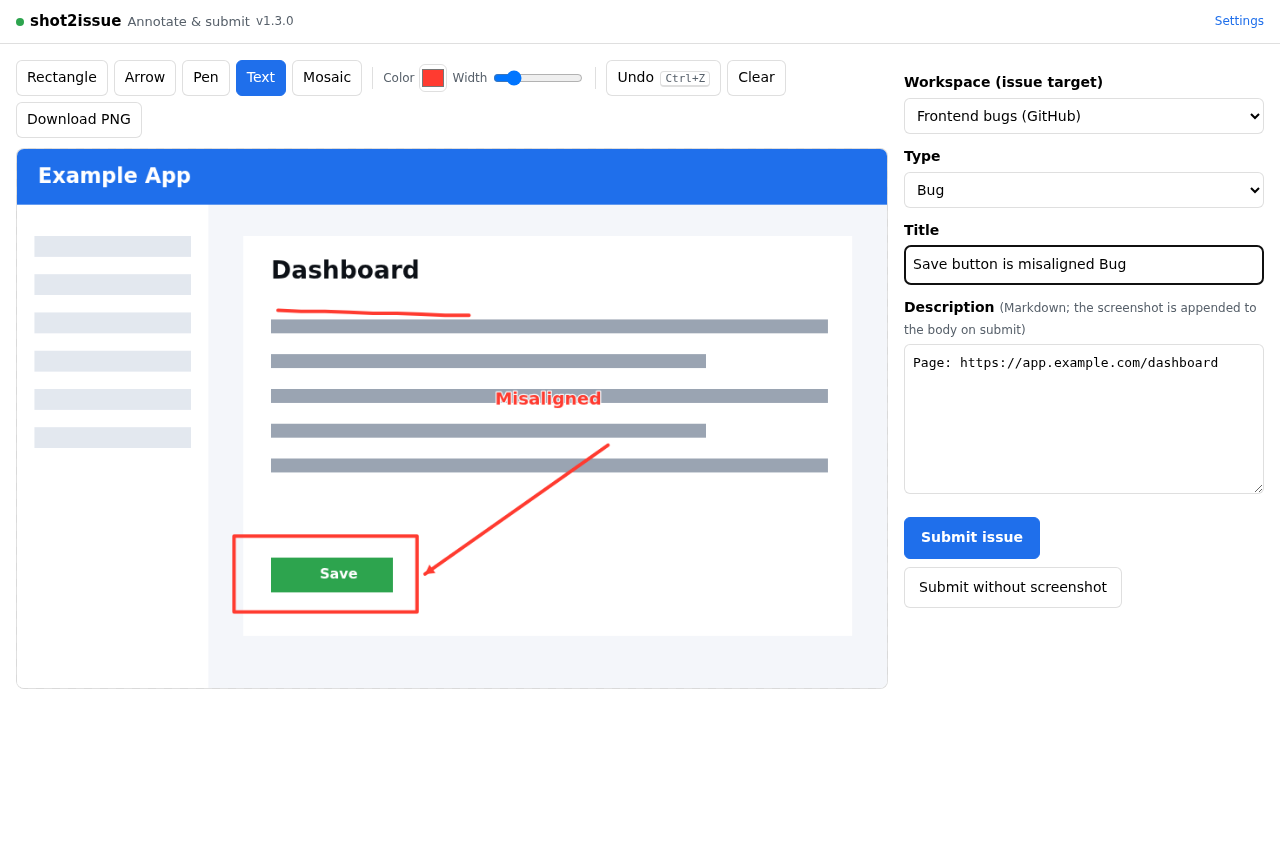
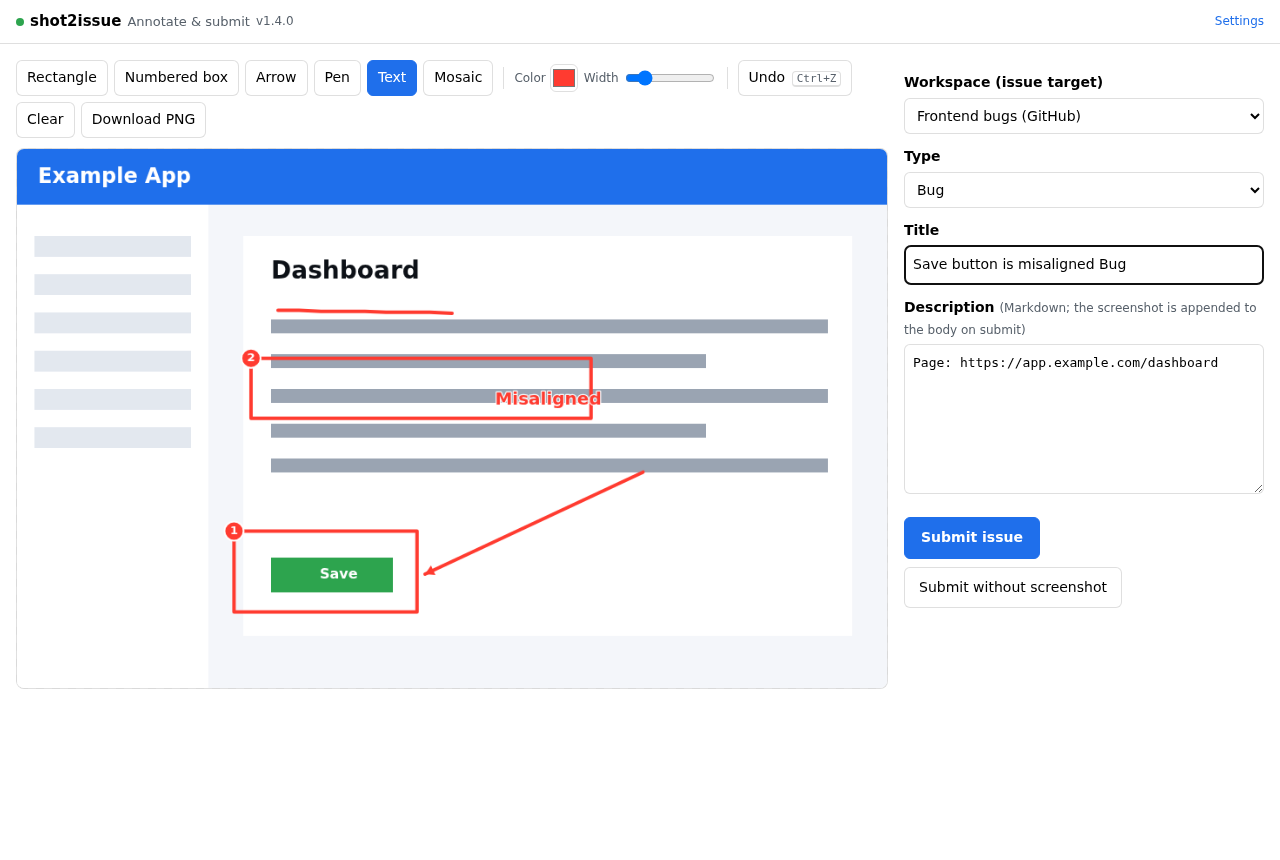
feat: numbered-box tool and double-Esc to close
- Add a "Numbered box" annotation tool: draws a rectangle with an auto-incrementing,
  white-outlined circular badge (1, 2, 3, …) at its top-left corner. The number is the
  count of existing numbered boxes + 1, so undo frees the number for the next box.
- Esc now closes the editor only on the second consecutive press; the first press shows a
  transient toast ("Press Esc again to close") that disarms after 2s.
- Update the Playwright smoke test (numbered box + double-Esc) and the README screenshot
  to showcase the numbered boxes.
- Version 1.4.0.

diff --git a/src/editor.ts b/src/editor.ts
@@ -31,6 +31,7 @@ interface Op {
   x1?: number;
   y1?: number;
   points?: Array<{ x: number; y: number }>; // freehand pen path
+  num?: number; // numbered-box badge value
   size?: number;
   x?: number;
   y?: number;
@@ -217,8 +218,8 @@ els.clear.addEventListener('click', () => {
 });
 
 // Page-level shortcuts:
-//   Esc        → close this editor tab
-//   Ctrl/Cmd+Z → undo the last annotation (native undo still works inside text fields)
+//   Esc (twice) → close this editor tab (the first press shows a confirmation toast)
+//   Ctrl/Cmd+Z  → undo the last annotation (native undo still works inside text fields)
 function closeEditorTab(): void {
   chrome.tabs
     .getCurrent()
@@ -227,10 +228,37 @@ function closeEditorTab(): void {
     })
     .catch(() => {});
 }
+
+let escArmed = false;
+let escTimer: number | undefined;
+let toastEl: HTMLElement | null = null;
+let toastTimer: number | undefined;
+function showToast(message: string): void {
+  if (!toastEl) {
+    toastEl = document.createElement('div');
+    toastEl.className = 'toast';
+    document.body.appendChild(toastEl);
+  }
+  toastEl.textContent = message;
+  toastEl.classList.add('show');
+  window.clearTimeout(toastTimer);
+  toastTimer = window.setTimeout(() => toastEl?.classList.remove('show'), 1600);
+}
+
 window.addEventListener('keydown', (e) => {
   if (e.target === textInput) return; // the text-tool input manages its own keys
   if (e.key === 'Escape') {
-    closeEditorTab();
+    if (escArmed) {
+      window.clearTimeout(escTimer);
+      escArmed = false;
+      closeEditorTab();
+    } else {
+      escArmed = true;
+      showToast(t('escAgainToClose'));
+      escTimer = window.setTimeout(() => {
+        escArmed = false;
+      }, 2000);
+    }
     return;
   }
   if ((e.ctrlKey || e.metaKey) && !e.shiftKey && (e.key === 'z' || e.key === 'Z')) {
@@ -271,6 +299,11 @@ canvas.addEventListener('mousedown', (e) => {
     x1: p.x,
     y1: p.y,
   };
+  // Numbered box: assign the next number now so the drag preview shows it. The count is
+  // taken from the committed ops, so undo naturally frees the number for the next box.
+  if (currentTool === 'numrect') {
+    drawing.num = ops.filter((o) => o.tool === 'numrect').length + 1;
+  }
 });
 
 canvas.addEventListener('mousemove', (e) => {
@@ -371,6 +404,8 @@ function drawOp(op: Op): void {
     const x = Math.min(op.x0 ?? 0, op.x1 ?? 0);
     const y = Math.min(op.y0 ?? 0, op.y1 ?? 0);
     ctx.strokeRect(x, y, Math.abs((op.x1 ?? 0) - (op.x0 ?? 0)), Math.abs((op.y1 ?? 0) - (op.y0 ?? 0)));
+  } else if (op.tool === 'numrect') {
+    drawNumRect(op);
   } else if (op.tool === 'arrow') {
     drawArrow(op);
   } else if (op.tool === 'pen') {
@@ -402,6 +437,28 @@ function drawPen(op: Op): void {
   ctx.moveTo(pts[0].x, pts[0].y);
   for (let i = 1; i < pts.length; i++) ctx.lineTo(pts[i].x, pts[i].y);
   ctx.stroke();
+}
+
+/** Draw a rectangle with a numbered, white-outlined circular badge at its top-left corner. */
+function drawNumRect(op: Op): void {
+  const x = Math.min(op.x0 ?? 0, op.x1 ?? 0);
+  const y = Math.min(op.y0 ?? 0, op.y1 ?? 0);
+  ctx.strokeRect(x, y, Math.abs((op.x1 ?? 0) - (op.x0 ?? 0)), Math.abs((op.y1 ?? 0) - (op.y0 ?? 0)));
+
+  const r = Math.max(11, (op.width || 4) * 2.4);
+  ctx.beginPath();
+  ctx.arc(x, y, r, 0, Math.PI * 2);
+  ctx.fillStyle = op.color;
+  ctx.fill();
+  ctx.lineWidth = Math.max(2, r / 6);
+  ctx.strokeStyle = '#ffffff';
+  ctx.stroke();
+
+  ctx.fillStyle = '#ffffff';
+  ctx.font = `bold ${Math.round(r * 1.2)}px system-ui, sans-serif`;
+  ctx.textAlign = 'center';
+  ctx.textBaseline = 'middle';
+  ctx.fillText(String(op.num ?? '?'), x, y + r * 0.04);
 }
 
 function drawArrow(op: Op): void {

diff --git a/src/lib/i18n.ts b/src/lib/i18n.ts
@@ -22,6 +22,8 @@ const MESSAGES: Record<string, Record<string, string>> = {
     toolMosaicTitle: 'Mosaic / redact sensitive content',
     toolPen: 'Pen',
     toolPenTitle: 'Freehand pen',
+    toolNumRect: 'Numbered box',
+    toolNumRectTitle: 'Numbered box (auto-numbered; the count drops on undo)',
     color: 'Color',
     thickness: 'Width',
     undo: 'Undo',
@@ -43,6 +45,7 @@ const MESSAGES: Record<string, Record<string, string>> = {
     submitNoImage: 'Submit without screenshot',
     submitNoImageTitle: 'Create the issue without attaching the screenshot',
     openIssue: 'Open issue',
+    escAgainToClose: 'Press Esc again to close',
 
     statusNoShot: 'No screenshot to edit. Open any web page and click the extension icon to capture.',
     statusNeedWorkspace: 'No workspace configured. Click “Settings” (top right) to add one before submitting.',
@@ -138,6 +141,8 @@ const MESSAGES: Record<string, Record<string, string>> = {
     toolMosaicTitle: '马赛克 / 遮挡敏感内容',
     toolPen: '画笔',
     toolPenTitle: '自由手绘',
+    toolNumRect: '编号框',
+    toolNumRectTitle: '带编号的矩形（自动编号，撤销时计数减一）',
     color: '颜色',
     thickness: '粗细',
     undo: '撤销',
@@ -159,6 +164,7 @@ const MESSAGES: Record<string, Record<string, string>> = {
     submitNoImage: '不含截图提交',
     submitNoImageTitle: '不附带截图直接创建 issue',
     openIssue: '打开 issue',
+    escAgainToClose: '再按一次 Esc 关闭',
 
     statusNoShot: '没有待编辑的截图。打开任意网页后点扩展图标即可截图。',
     statusNeedWorkspace: '尚未配置工作空间。请点右上角「设置」添加后再提交。',
@@ -252,6 +258,8 @@ const MESSAGES: Record<string, Record<string, string>> = {
     toolMosaicTitle: 'モザイク / 機密情報の伏せ字',
     toolPen: 'ペン',
     toolPenTitle: 'フリーハンド',
+    toolNumRect: '番号付き枠',
+    toolNumRectTitle: '番号付き矩形（自動採番、取り消しで番号が減る）',
     color: '色',
     thickness: '太さ',
     undo: '元に戻す',
@@ -273,6 +281,7 @@ const MESSAGES: Record<string, Record<string, string>> = {
     submitNoImage: 'スクリーンショットなしで送信',
     submitNoImageTitle: 'スクリーンショットを添付せずに issue を作成',
     openIssue: 'issue を開く',
+    escAgainToClose: 'もう一度 Esc で閉じる',
 
     statusNoShot: '編集対象のスクリーンショットがありません。任意のページで拡張機能アイコンをクリックして撮影してください。',
     statusNeedWorkspace: 'ワークスペースが未設定です。右上の「設定」から追加してから送信してください。',

diff --git a/src/editor.css b/src/editor.css
@@ -156,3 +156,21 @@ button.ghost {
 .spin { display: inline-block; width: 12px; height: 12px; border: 2px solid var(--border); border-top-color: var(--accent); border-radius: 50%; animation: spin .8s linear infinite; vertical-align: -1px; margin-right: 6px; }
 @keyframes spin { to { transform: rotate(360deg); } }
 .hidden { display: none; }
+
+/* Transient toast (e.g. the "press Esc again" hint). */
+.toast {
+  position: fixed;
+  left: 50%;
+  bottom: 28px;
+  transform: translateX(-50%) translateY(8px);
+  background: rgba(0, 0, 0, 0.82);
+  color: #fff;
+  padding: 8px 14px;
+  border-radius: 8px;
+  font-size: 13px;
+  z-index: 9999;
+  opacity: 0;
+  pointer-events: none;
+  transition: opacity 0.15s, transform 0.15s;
+}
+.toast.show { opacity: 1; transform: translateX(-50%) translateY(0); }

diff --git a/src/editor.html b/src/editor.html
@@ -19,6 +19,7 @@
     <div class="canvas-col">
       <div class="toolbar" id="toolbar">
         <button class="tool active" data-tool="rect" data-i18n="toolRect" data-i18n-title="toolRectTitle"></button>
+        <button class="tool" data-tool="numrect" data-i18n="toolNumRect" data-i18n-title="toolNumRectTitle"></button>
         <button class="tool" data-tool="arrow" data-i18n="toolArrow" data-i18n-title="toolArrowTitle"></button>
         <button class="tool" data-tool="pen" data-i18n="toolPen" data-i18n-title="toolPenTitle"></button>
         <button class="tool" data-tool="text" data-i18n="toolText" data-i18n-title="toolTextTitle"></button>
